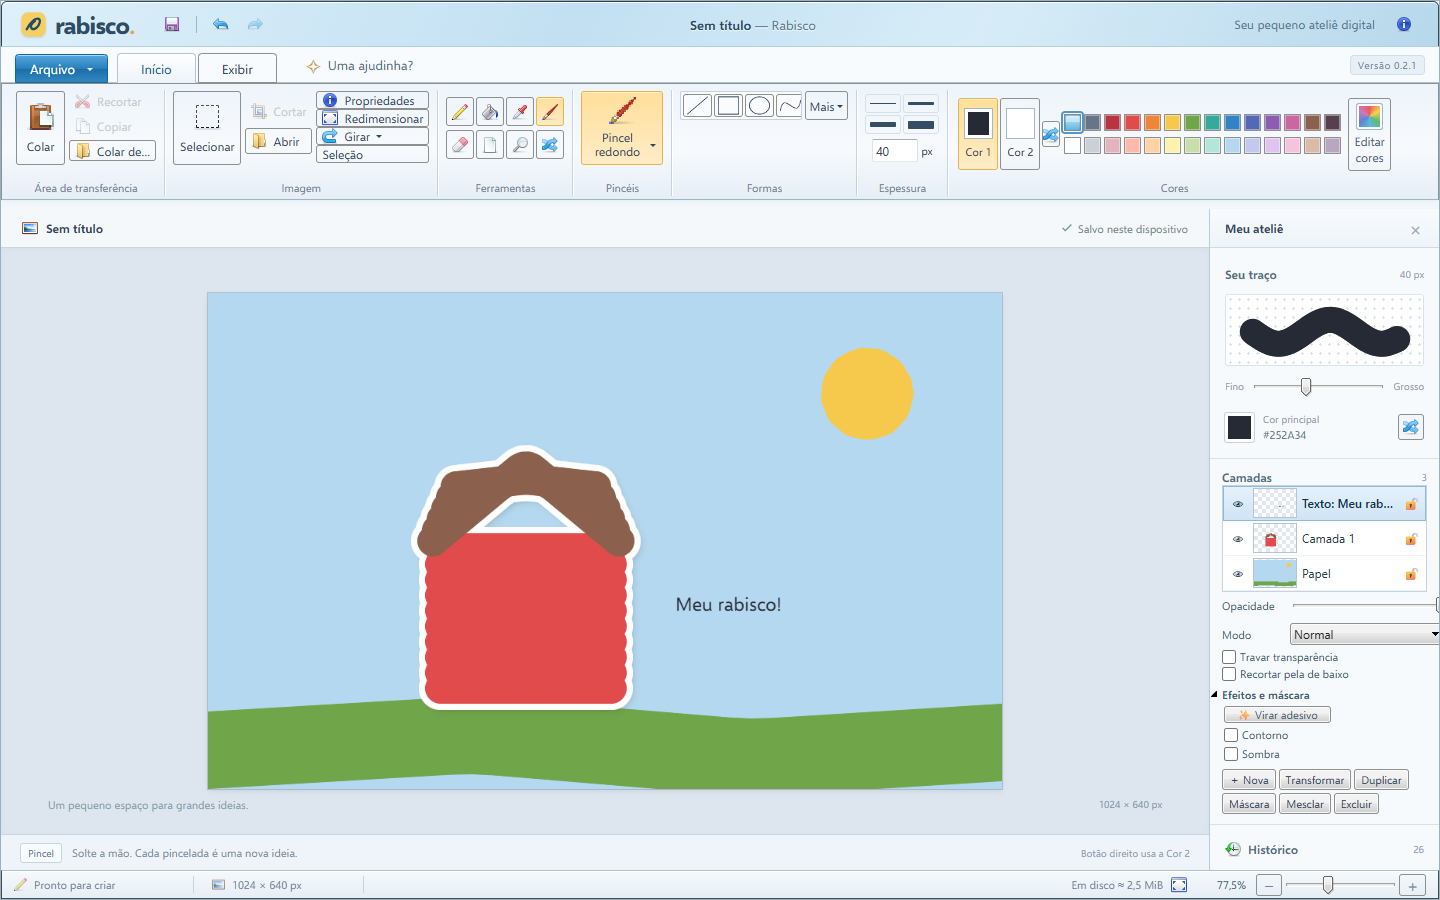
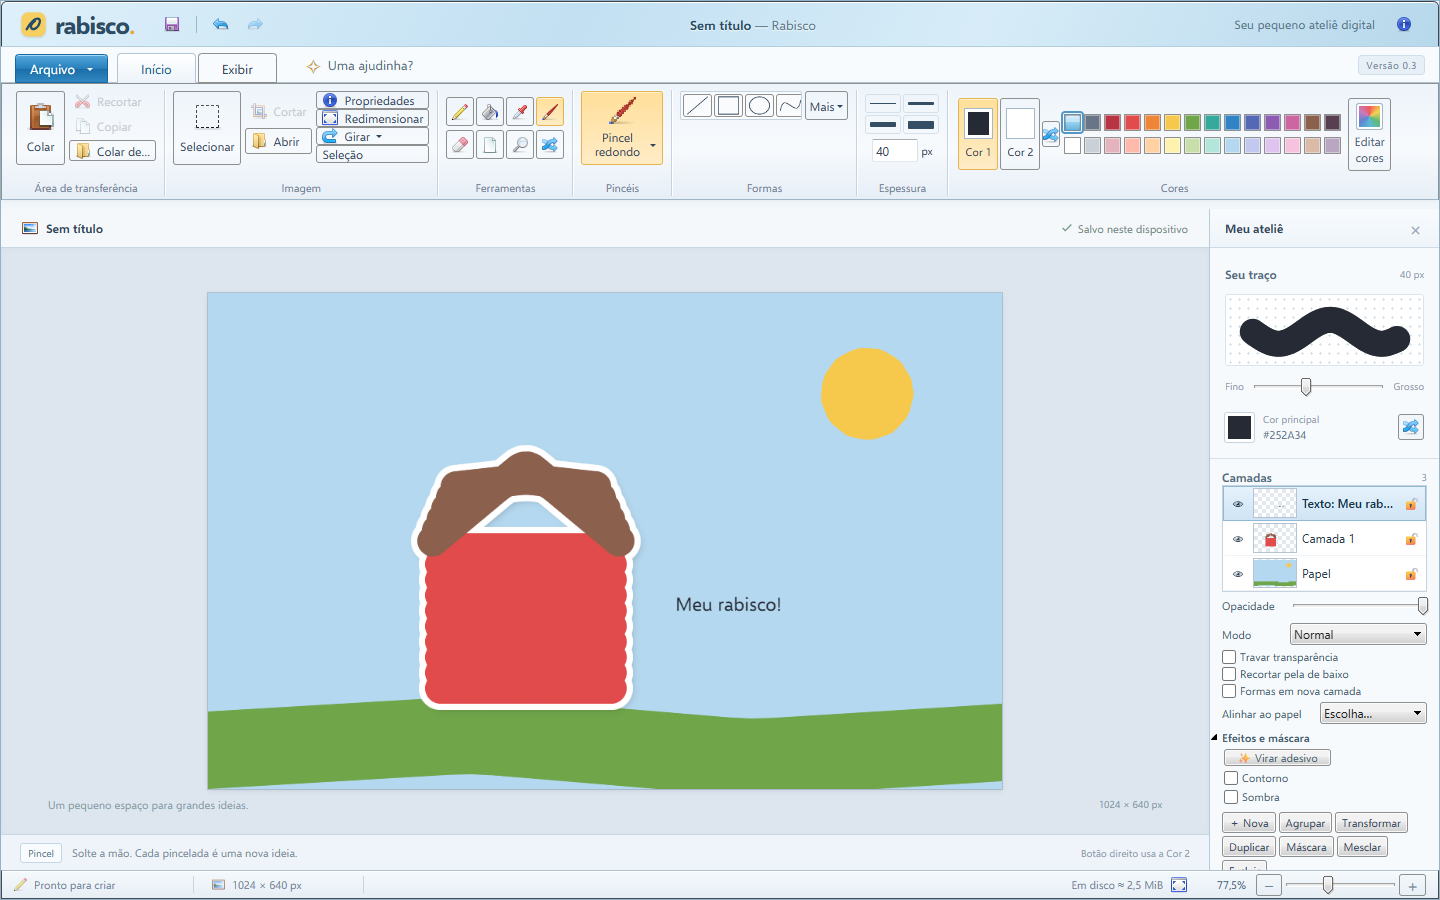
Rabisco 0.3.0: alinhar ao papel, 20 camadas medidas e fechamento da versão
Alinhar a camada ativa ao papel; cenário de 20 camadas de 4000 × 4000 no npm run perf com tempo até a tela atualizar; versão 0.3 na interface; roteiro manual, README, ROADMAP e ponto de continuação atualizados.

Changed region(s): [[0.8438, 0.7467, 1.0, 0.9644], [0.9688, 0.6533, 1.0, 0.7156], [0.9375, 0.0622, 0.9688, 0.0933]]

diff --git a/src/canvas/editorController.ts b/src/canvas/editorController.ts
@@ -19,7 +19,7 @@ import type { EventoFerramenta } from '../tools/tool';
 import type { ConfiguracaoTexto } from '../tools/texto';
 import * as arquivos from './controle/arquivos';
 import { ControleColagem } from './controle/colagem';
-import { ControleFerramentas } from './controle/ferramentas';
+import { ControleFerramentas, limitesDosPixels } from './controle/ferramentas';
 import { ControlePapel } from './controle/papel';
 import type { NucleoEditor } from './controle/nucleo';
 import { Persistencia } from './controle/persistencia';
@@ -473,7 +473,37 @@ export class EditorController implements EditorApi, NucleoEditor {
   executarCamada(comando: ComandoCamada | Extract<Comando, { tipo: 'Lote' }>) {
     if (!this.disponivel()) return false;
     this.ferramentas.confirmarPendente();
-    return this.executar(comando);
+    return medicaoAtiva
+      ? medirOperacao('camada', () => this.executar(comando))
+      : this.executar(comando);
+  }
+
+  /** Alinha os pixels da camada ativa a uma borda ou ao centro do papel. */
+  alinharAtiva(lado: 'esquerda' | 'centro-h' | 'direita' | 'topo' | 'centro-v' | 'base') {
+    const camada = this.doc.activeLayer;
+    const limites = limitesDosPixels(this.doc.lerPixels(undefined, { camada: camada.id }));
+    if (!limites) {
+      this.avisar('A camada está vazia: não há o que alinhar.');
+      return false;
+    }
+    const { width, height } = this.doc;
+    const dx =
+      lado === 'esquerda'
+        ? -limites.x
+        : lado === 'direita'
+          ? width - (limites.x + limites.width)
+          : lado === 'centro-h'
+            ? Math.round((width - limites.width) / 2) - limites.x
+            : 0;
+    const dy =
+      lado === 'topo'
+        ? -limites.y
+        : lado === 'base'
+          ? height - (limites.y + limites.height)
+          : lado === 'centro-v'
+            ? Math.round((height - limites.height) / 2) - limites.y
+            : 0;
+    return this.executarCamada({ tipo: 'DeslocarCamada', id: camada.id, dx, dy });
   }
 
   /** Ctrl+G: põe a camada ativa num grupo novo. */

diff --git a/src/app/components/CamadasPainel.tsx b/src/app/components/CamadasPainel.tsx
@@ -266,6 +266,27 @@ export function CamadasPainel({ info, editor }: CamadasPainelProps) {
         </div>
       )}
 
+      {ativa && (
+        <label className="camada-alinhar">
+          Alinhar ao papel
+          <select
+            aria-label="Alinhar ao papel"
+            value=""
+            onChange={(evento) => {
+              const lado = evento.target.value as Parameters<EditorApi['alinharAtiva']>[0];
+              if (lado) api()?.alinharAtiva(lado);
+            }}
+          >
+            <option value="">Escolha…</option>
+            <option value="esquerda">À esquerda</option>
+            <option value="centro-h">Ao centro (horizontal)</option>
+            <option value="direita">À direita</option>
+            <option value="topo">Ao topo</option>
+            <option value="centro-v">Ao meio (vertical)</option>
+            <option value="base">À base</option>
+          </select>
+        </label>
+      )}
       {ativa && <EfeitosDaCamada camada={ativa} alterar={alterar} api={api} />}
 
       <div className="camadas-acoes" role="toolbar" aria-label="Ações de camada">

diff --git a/tests/e2e/camadas.spec.ts b/tests/e2e/camadas.spec.ts
@@ -333,3 +333,17 @@ test('guias de encaixe: o centro da camada gruda no centro do papel', async ({ p
   await expect(page.locator('.history-list').getByText('Transformação livre')).toHaveCount(1);
   await expect.poll(async () => Math.abs((await limites()).centro - 512)).toBeLessThanOrEqual(1);
 });
+
+test('alinhar ao papel: centraliza a camada e desfaz em um passo', async ({ page }) => {
+  await page.goto('/');
+  await expect(page.getByText('Salvo neste dispositivo', { exact: true })).toBeVisible();
+  await blocoVermelho(page);
+  await page.getByRole('combobox', { name: 'Alinhar ao papel' }).selectOption('centro-h');
+  await page.getByRole('combobox', { name: 'Alinhar ao papel' }).selectOption('centro-v');
+  // O bloco (~66 × 46 px) fica no centro do papel de 1024 × 640.
+  await expect.poll(() => pixel(page, 512, 320)).not.toEqual(BRANCO);
+  await expect.poll(() => pixel(page, 230, 220)).toEqual(BRANCO);
+  await page.keyboard.press('Control+z');
+  await page.keyboard.press('Control+z');
+  await expect.poll(() => pixel(page, 230, 220)).not.toEqual(BRANCO);
+});

diff --git a/src/app/styles.css b/src/app/styles.css
@@ -2036,3 +2036,29 @@ input[type='range']::-webkit-slider-thumb {
   white-space: nowrap;
   max-width: 220px;
 }
+
+.camada-alinhar {
+  display: grid;
+  grid-template-columns: 92px 1fr;
+  align-items: center;
+  gap: 6px;
+  margin-top: 4px;
+  font-size: 11px;
+  color: #465e71;
+}
+
+/* Listas do painel de camadas cabem na largura do painel. */
+.camada-propriedades > label,
+.camada-alinhar {
+  grid-template-columns: 62px minmax(0, 1fr);
+}
+.camada-alinhar {
+  grid-template-columns: 92px minmax(0, 1fr);
+}
+.camada-propriedades select,
+.camada-propriedades input[type='range'],
+.camada-alinhar select {
+  min-width: 0;
+  width: 100%;
+  box-sizing: border-box;
+}

diff --git a/src/app/components/EditorDialogs.tsx b/src/app/components/EditorDialogs.tsx
@@ -253,7 +253,7 @@ export function EditorDialogs({
             <Logo large />
             <p className="about-tagline">Um pequeno ateliê. Infinitas possibilidades.</p>
             <p>
-              Versão 0.2.1 · Feito para desenhar com calma, curiosidade e um pouco de nostalgia.
+              Versão 0.3.0 · Feito para desenhar com calma, curiosidade e um pouco de nostalgia.
             </p>
             <div className="about-credits">
               <h3>Feito com ferramentas abertas</h3>

diff --git a/src/canvas/editorTypes.ts b/src/canvas/editorTypes.ts
@@ -52,6 +52,7 @@ export interface EditorApi {
   executarCamada(comando: ComandoCamada | Extract<Comando, { tipo: 'Lote' }>): boolean;
   novaCamada(): boolean;
   agruparAtiva(): boolean;
+  alinharAtiva(lado: 'esquerda' | 'centro-h' | 'direita' | 'topo' | 'centro-v' | 'base'): boolean;
   copiarMesclado(): Promise<void>;
   adicionarMascara(id: string): boolean;
   importarComoCamada(pixels: PixelBuffer, nome: string): boolean;

diff --git a/src/app/components/EditorChrome.tsx b/src/app/components/EditorChrome.tsx
@@ -112,7 +112,7 @@ export function EditorChrome({
         <button className="learn-link" onClick={() => onDialog('help')}>
           <span className="little-spark">✧</span> Uma ajudinha?
         </button>
-        <span className="version-label">Versão 0.2.1</span>
+        <span className="version-label">Versão 0.3</span>
       </nav>
     </>
   );

diff --git a/src/canvas/medicao.ts b/src/canvas/medicao.ts
@@ -7,6 +7,8 @@ export type OperacaoMedida =
   | 'balde'
   | 'desfazer'
   | 'refazer'
+  /** Comandos do painel de camadas (ocultar, mover, mesclar…), com a recomposição da tela. */
+  | 'camada'
   | `historico:${FerramentaDoTraco | 'balde' | 'desfazer' | 'refazer'}`;
 
 interface GravacaoMedida {

diff --git a/README.md b/README.md
@@ -10,8 +10,8 @@ Um editor de desenho no navegador com a simplicidade e a cara do paint da era Wi
 mais camadas, colagens e, em breve, uma IA que gera imagens com as próprias ferramentas do app
 e ensina a desenhar.
 
-![Versão](https://img.shields.io/badge/versão-0.3_em_andamento-3083c5)
-![Testes](https://img.shields.io/badge/testes-124_unitários_·_59_E2E-70a54a)
+![Versão](https://img.shields.io/badge/versão-0.3-3083c5)
+![Testes](https://img.shields.io/badge/testes-124_unitários_·_68_E2E-70a54a)
 ![Local-first](https://img.shields.io/badge/seus_desenhos-ficam_no_seu_dispositivo-f6c94d)
 ![Idioma](https://img.shields.io/badge/interface-português_do_Brasil-e24b4b)
 
@@ -43,7 +43,8 @@ e ensina a desenhar.
 - Camadas com opacidade, **16 modos de mesclagem**, bloqueios, máscaras e recorte
 - **Contorno e sombra** que dá para editar depois, e o botão **✨ Virar adesivo**
 - Cole ou arraste imagens: cada uma vira uma camada
-- **Mover** e **transformação livre** (escalar e girar)
+- **Mover**, **transformação livre** (escalar, girar, distorcer) e **guias de encaixe**
+- **Grupos**, alinhar ao papel e **salvar com camadas** em `.rabisco`, **PSD** e **ORA**
 - Desfazer e refazer para tudo, inclusive criar, mesclar e excluir camadas
 
 </td>
@@ -55,7 +56,9 @@ e ensina a desenhar.
 
 - Papel de até 8192 px, que cresce pelas alças, como no paint
 - Girar, inverter, redimensionar e inclinar
-- Abre PNG, JPEG, BMP, GIF, WebP e ICO; salva PNG, JPEG, BMP, GIF e WebP
+- Abre e salva **.rabisco** (com tudo), **PSD** (Photoshop/Photopea) e **ORA** (Krita, GIMP)
+- Imagens: abre PNG, JPEG, BMP, GIF, WebP e ICO; exporta PNG, JPEG, BMP, GIF e WebP
+- Arquivos recentes no menu Arquivo
 - Imprimir, réguas, grade, zoom de 12,5% a 800% e tela inteira
 
 </td>
@@ -126,29 +129,29 @@ A lista completa está em **Uma ajudinha?**, dentro do app, e no [guia de uso](d
 
 ## 🗺 Roteiro
 
-| Versão  | O quê                                                                                                                  |  Situação   |
-| ------- | ---------------------------------------------------------------------------------------------------------------------- | :---------: |
-| 0.1     | Janela Aero, ferramentas básicas, PNG e autosave                                                                       |     ✅      |
-| 0.2     | Todas as ferramentas do paint clássico, pincéis, spray, 37 formas, formas próprias, zoom e réguas                      |     ✅      |
-| 0.2.1   | Estabilização: testes confiáveis, desempenho medido, autosave por blocos, ribbon adaptável                             |     ✅      |
-| **0.3** | **Camadas, máscaras, efeitos, colagem, transformação livre**, formato `.rabisco`, PSD e ORA                            | 🚧 quase lá |
-| 0.4     | Estabilizador de traço, simetria, formas que se ajeitam sozinhas                                                       |     🔜      |
-| 0.5     | Filtros e estilos: **ASCII**, pixel art, dithering, meio-tom                                                           |     🔜      |
-| 0.6     | **IA com chave gratuita** (AI Horde sem cadastro, Cloudflare, Gemini, Hugging Face…) gerando e editando em camada nova |     🔜      |
-| 0.7     | IA local no navegador: remover fundo, seleção inteligente, apagar objeto, ampliar                                      |     🔜      |
-| 0.8     | **"Desenhe pra mim"**: a IA usa as próprias ferramentas do Rabisco, passo a passo, na sua frente                       |     🔜      |
-| 0.9     | **Rabi**, o tutor que olha seu desenho, dá dicas e propõe lições                                                       |     🔜      |
-| 1.0     | Instalável (PWA e desktop com Tauri), outros idiomas, acessibilidade                                                   |     🔜      |
+| Versão | O quê                                                                                                                  | Situação |
+| ------ | ---------------------------------------------------------------------------------------------------------------------- | :------: |
+| 0.1    | Janela Aero, ferramentas básicas, PNG e autosave                                                                       |    ✅    |
+| 0.2    | Todas as ferramentas do paint clássico, pincéis, spray, 37 formas, formas próprias, zoom e réguas                      |    ✅    |
+| 0.2.1  | Estabilização: testes confiáveis, desempenho medido, autosave por blocos, ribbon adaptável                             |    ✅    |
+| 0.3    | Camadas, máscaras, efeitos, colagem, transformação livre, `.rabisco`, PSD e ORA                                        |    ✅    |
+| 0.4    | Estabilizador de traço, simetria, formas que se ajeitam sozinhas                                                       |    🔜    |
+| 0.5    | Filtros e estilos: **ASCII**, pixel art, dithering, meio-tom                                                           |    🔜    |
+| 0.6    | **IA com chave gratuita** (AI Horde sem cadastro, Cloudflare, Gemini, Hugging Face…) gerando e editando em camada nova |    🔜    |
+| 0.7    | IA local no navegador: remover fundo, seleção inteligente, apagar objeto, ampliar                                      |    🔜    |
+| 0.8    | **"Desenhe pra mim"**: a IA usa as próprias ferramentas do Rabisco, passo a passo, na sua frente                       |    🔜    |
+| 0.9    | **Rabi**, o tutor que olha seu desenho, dá dicas e propõe lições                                                       |    🔜    |
+| 1.0    | Instalável (PWA e desktop com Tauri), outros idiomas, acessibilidade                                                   |    🔜    |
 
 **Para não nos perdermos:** a ideia original e os pilares estão em [docs/IDEIA.md](docs/IDEIA.md), as ferramentas e bibliotecas pesquisadas (com licença e versão em que entram) em [docs/FERRAMENTAS.md](docs/FERRAMENTAS.md), e tudo o que falta para o sistema ficar completo em [docs/MELHORIAS.md](docs/MELHORIAS.md).
 
-Detalhes em [ROADMAP.md](ROADMAP.md), o que mudou em cada versão em [CHANGELOG.md](CHANGELOG.md) e **onde a 0.3 parou** em [prompts/CONTINUAR_0.3.md](prompts/CONTINUAR_0.3.md).
+Detalhes em [ROADMAP.md](ROADMAP.md), o que mudou em cada versão em [CHANGELOG.md](CHANGELOG.md) e o **ponto de continuação** em [prompts/CONTINUAR_0.3.md](prompts/CONTINUAR_0.3.md).
 
 ## 🧪 Testes e desempenho
 
 ```powershell
 npm test                    # 124 testes unitários (Vitest)
-npm run test:e2e            # 59 fluxos no navegador (Playwright + Edge)
+npm run test:e2e            # 68 fluxos no navegador (Playwright + Edge)
 npm run test:e2e:estavel    # a suíte E2E três vezes seguidas
 npm run perf -- --rotulo=x  # mede pincel, spray, balde, desfazer, memória e autosave
 ```

diff --git a/ROADMAP.md b/ROADMAP.md
@@ -2,19 +2,19 @@
 
 Cada etapa deve ser utilizável, documentada e validada antes de iniciar a seguinte. A presença de uma etapa neste roteiro não indica implementação.
 
-| Versão | Entrega                                                                                                                                                       | Estado                                                                                                        |
-| ------ | ------------------------------------------------------------------------------------------------------------------------------------------------------------- | ------------------------------------------------------------------------------------------------------------- |
-| 0.1    | Shell Aero com 7.css, canvas único, lápis, pincel, borracha, balde, formas básicas, Cor 1/Cor 2, seleção retangular, histórico, PNG e autosave                | Concluída e validada                                                                                          |
-| 0.2    | Paridade das ferramentas clássicas, texto editável durante inserção, zoom/pan e atalhos completos                                                             | Concluída e validada em 24/11/2026                                                                            |
-| 0.2.1  | Estabilização: testes confiáveis, desempenho medido, pixels só no canvas, autosave por blocos, editor em módulos, ribbon adaptável e carregamento sob demanda | Concluída e validada em 24/11/2026                                                                            |
-| 0.3    | Camadas, importar/colar imagem, transformação livre, formato .rabisco, PSD e ORA                                                                              | Em andamento: passos 1–5 quase completos; 6 (.rabisco, PSD, ORA) e 7 pendentes — ver prompts/CONTINUAR_0.3.md |
-| 0.4    | Estabilizador, pressão, simetria e reconhecimento de formas                                                                                                   | Planejada                                                                                                     |
-| 0.5    | Filtros, arquitetura de estilos, ASCII, pixel art e dithering                                                                                                 | Planejada                                                                                                     |
-| 0.6    | Configuração BYOK, AI Horde, fila cancelável e geração/edição em nova camada                                                                                  | Planejada                                                                                                     |
-| 0.7    | Modelos locais sob demanda, seleção inteligente, remoção de fundo, apagar objeto e ampliar                                                                    | Planejada                                                                                                     |
-| 0.8    | Agente “Desenhe pra mim” usando comandos tipados, com execução visível e desfazer                                                                             | Planejada                                                                                                     |
-| 0.9    | Tutor Rabi, lições e modo de traçar por cima                                                                                                                  | Planejada                                                                                                     |
-| 1.0    | PWA, Tauri, i18n, acessibilidade ampliada, testes visuais, performance e documentação final                                                                   | Planejada                                                                                                     |
+| Versão | Entrega                                                                                                                                                       | Estado                             |
+| ------ | ------------------------------------------------------------------------------------------------------------------------------------------------------------- | ---------------------------------- |
+| 0.1    | Shell Aero com 7.css, canvas único, lápis, pincel, borracha, balde, formas básicas, Cor 1/Cor 2, seleção retangular, histórico, PNG e autosave                | Concluída e validada               |
+| 0.2    | Paridade das ferramentas clássicas, texto editável durante inserção, zoom/pan e atalhos completos                                                             | Concluída e validada em 24/11/2026 |
+| 0.2.1  | Estabilização: testes confiáveis, desempenho medido, pixels só no canvas, autosave por blocos, editor em módulos, ribbon adaptável e carregamento sob demanda | Concluída e validada em 24/11/2026 |
+| 0.3    | Camadas, importar/colar imagem, transformação livre, formato .rabisco, PSD e ORA                                                                              | Concluída e validada em 25/11/2026 |
+| 0.4    | Estabilizador, pressão, simetria e reconhecimento de formas                                                                                                   | Planejada                          |
+| 0.5    | Filtros, arquitetura de estilos, ASCII, pixel art e dithering                                                                                                 | Planejada                          |
+| 0.6    | Configuração BYOK, AI Horde, fila cancelável e geração/edição em nova camada                                                                                  | Planejada                          |
+| 0.7    | Modelos locais sob demanda, seleção inteligente, remoção de fundo, apagar objeto e ampliar                                                                    | Planejada                          |
+| 0.8    | Agente “Desenhe pra mim” usando comandos tipados, com execução visível e desfazer                                                                             | Planejada                          |
+| 0.9    | Tutor Rabi, lições e modo de traçar por cima                                                                                                                  | Planejada                          |
+| 1.0    | PWA, Tauri, i18n, acessibilidade ampliada, testes visuais, performance e documentação final                                                                   | Planejada                          |
 
 O [roteiro manual da versão 0.2](README.md#roteiro-manual-de-10-minutos) reúne 15 verificações para fazer no editor.
 

diff --git a/docs/desempenho.md b/docs/desempenho.md
@@ -88,3 +88,23 @@ Pendências que continuam: a primeira pincelada depois de criar o papel (sincron
 | Aviso de tamanho do Vite             | sim                   | não                   |
 
 Diálogos, editor e biblioteca de formas, editor de cores, codificadores de imagem e impressão continuam em arquivos carregados só quando usados.
+
+### 0.3 — 25/11/2026 (20 camadas de 4000 × 4000)
+
+`PERF_SO_CAMADAS=1 npm run perf -- --rotulo=camadas-03` cria um papel de 4000 × 4000, 19 camadas novas com um traço e modos variados (multiplicar, tela, sobrepor, normal, luz suave), e então mede uma pincelada na camada 10, ocultar uma camada, subir uma camada e desfazer.
+
+| Medida                                                                 |          Resultado | Meta da 0.3 |
+| ---------------------------------------------------------------------- | -----------------: | ----------- |
+| Montar as 20 camadas (19 × nova camada + traço + modo, pela interface) |            7459 ms | —           |
+| Pincel, cada movimento (p95)                                           |             0,2 ms | < 8 ms ✅   |
+| Pincel, histórico ao soltar                                            |            10,1 ms | —           |
+| Ocultar camada: trabalho do JavaScript                                 |             0,9 ms | —           |
+| Ocultar camada: até a tela atualizar (mediana de 6, dois quadros)      |            34,1 ms | < 100 ms ✅ |
+| Ocultar camada: até a tela atualizar (pior caso, a primeira vez)       |           148,7 ms | < 100 ms ❌ |
+| Subir camada (Ctrl+]): trabalho do JavaScript                          |             1,3 ms | —           |
+| Desfazer                                                               |             0,8 ms | —           |
+| Tarefas acima de 200 ms                                                |                  0 | nenhuma ✅  |
+| Autosave da pincelada                                                  | 2 blocos (0 bytes) | —           |
+| Heap JS em repouso                                                     |          135,0 MiB | —           |
+
+Como ler: o "trabalho do JavaScript" é o tempo síncrono do comando; o Canvas 2D adia o desenho das camadas para o quadro seguinte, por isso a coluna "até a tela atualizar" mede do clique até dois quadros depois (o piso, num monitor de 60 Hz, é ~33 ms). A primeira troca de visibilidade depois de montar as camadas é a mais lenta; as seguintes ficam no piso. As camadas ocupam ~1,2 GB de memória de canvas (fora do heap JS), que é o limite prático indicado no README.
